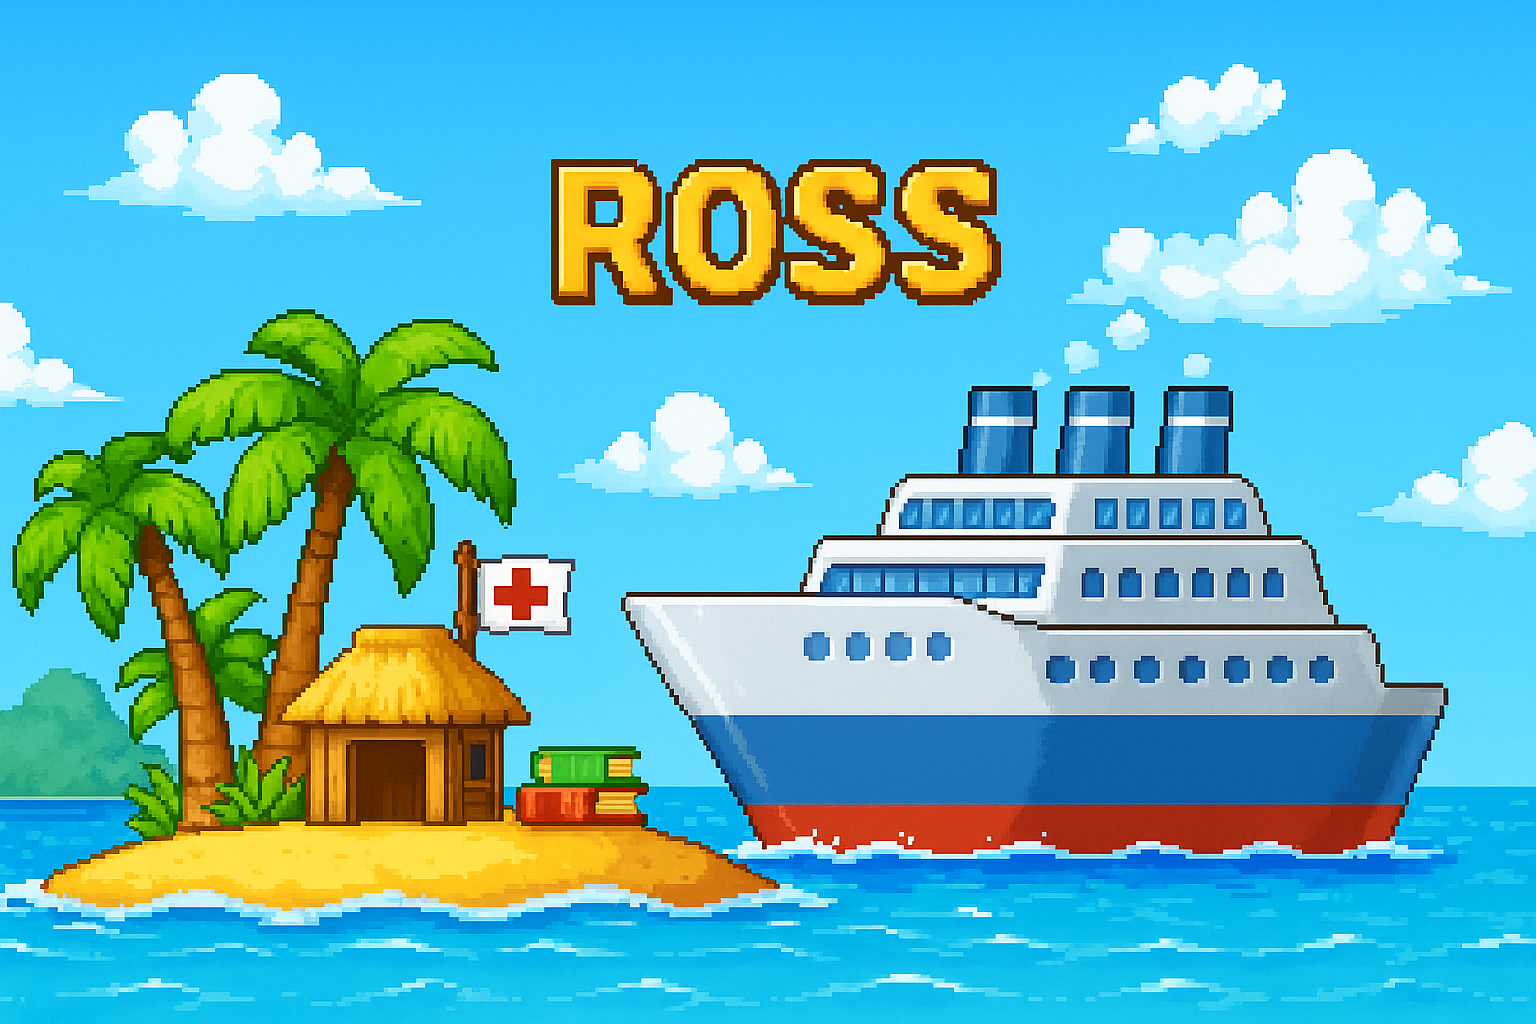
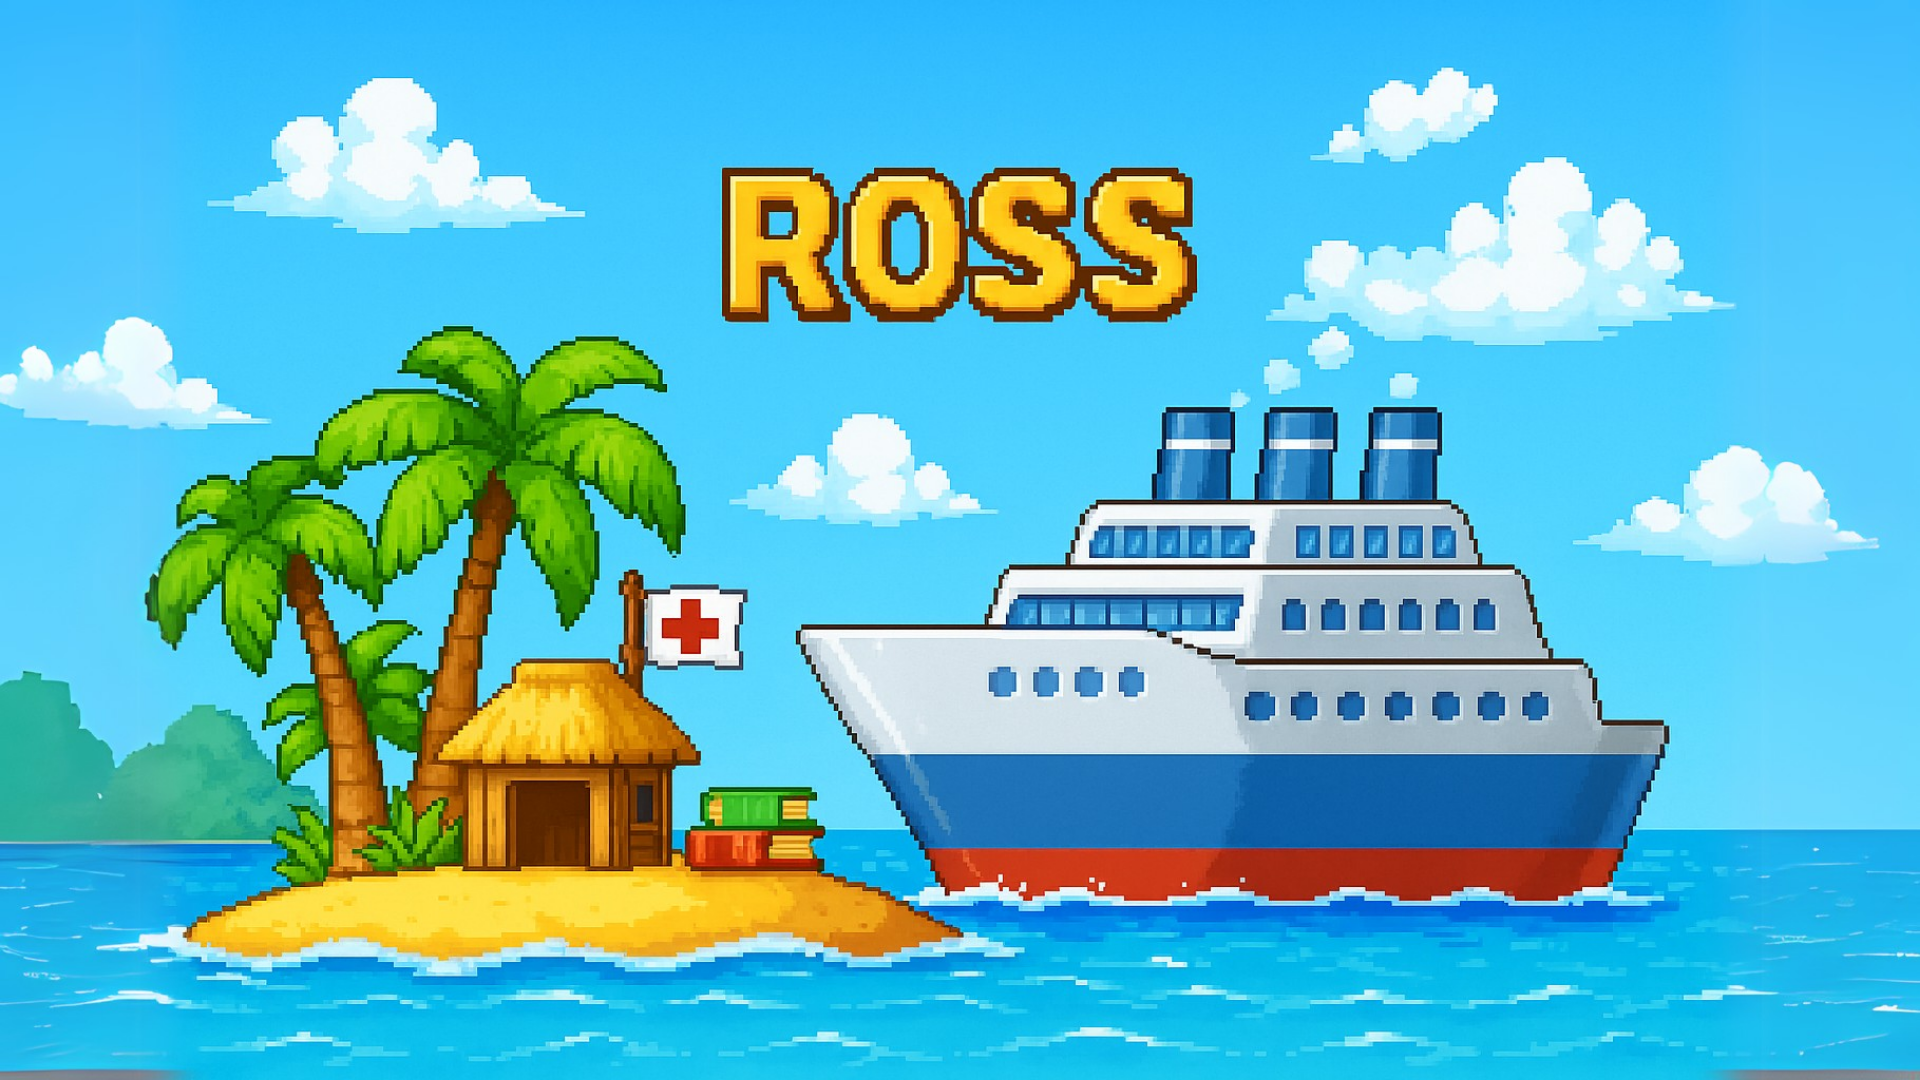
Adjust level styles and ground thickness

diff --git a/src/data/levels.ts b/src/data/levels.ts
@@ -23,6 +23,7 @@ export interface LevelConfig {
   }>;
   backgroundGradient: string;
   backgroundImage: string;
+  groundColor: string;
   nextLevel?: string;
 }
 
@@ -31,9 +32,9 @@ export const defaultLevels: Record<string, LevelConfig> = {
     id: 'birth',
     name: 'Birth',
     hotspots: [
-      { id: 'hospital', x: 200, y: 250 },
-      { id: 'parents', x: 500, y: 250 },
-      { id: 'first_breath', x: 800, y: 250 },
+      { id: 'hospital', x: 200, y: 200 },
+      { id: 'parents', x: 500, y: 200 },
+      { id: 'first_breath', x: 800, y: 200 },
     ],
     sprites: [
       {
@@ -57,121 +58,118 @@ export const defaultLevels: Record<string, LevelConfig> = {
         zIndex: 21
       }
     ],
-    backgroundGradient: 'from-pink-250 to-pink-400',
+    backgroundGradient: 'from-pink-200 to-pink-400',
     backgroundImage: '/assets/hospital.png',
+    groundColor: 'bg-green-400',
     nextLevel: 'childhood'
   },
   childhood: {
     id: 'childhood',
     name: 'Childhood',
     hotspots: [
-      { id: 'sleep', x: 200, y: 250 },
-      { id: 'creative', x: 400, y: 250 },
-      { id: 'song', x: 700, y: 250 },
+      { id: 'sleep', x: 200, y: 200 },
+      { id: 'creative', x: 400, y: 200 },
+      { id: 'song', x: 700, y: 200 },
     ],
     backgroundGradient: 'from-blue-400 to-blue-600',
     backgroundImage: '/assets/childhood.png',
+    groundColor: 'bg-orange-500',
     nextLevel: 'school'
   },
   school: {
     id: 'school',
     name: 'School',
     hotspots: [
-      { id: 'gifted', x: 150, y: 250 },
-      { id: 'AV', x: 300, y: 250 },
-      { id: 'DOTA', x: 500, y: 250 },
-      { id: 'PSPC', x: 800, y: 250 },
-      { id: 'dnd', x: 1000, y: 250 },
+      { id: 'gifted', x: 150, y: 200 },
+      { id: 'AV', x: 300, y: 200 },
+      { id: 'DOTA', x: 500, y: 200 },
+      { id: 'PSPC', x: 800, y: 200 },
+      { id: 'dnd', x: 1000, y: 200 },
 
     ],
     backgroundGradient: 'from-blue-400 to-blue-600',
     backgroundImage: '/assets/school.png',
+    groundColor: 'bg-green-600',
     nextLevel: 'university'
   },
   university: {
     id: 'university',
     name: 'University',
     hotspots: [
-      { id: 'program', x: 200, y: 250 },
-      { id: 'meeting', x: 500, y: 250 },
-      { id: 'game_nights', x: 800, y: 250 },
-      { id: 'eternum', x: 1200, y: 250 },
+      { id: 'program', x: 200, y: 200 },
+      { id: 'meeting', x: 500, y: 200 },
+      { id: 'game_nights', x: 800, y: 200 },
+      { id: 'eternum', x: 1200, y: 200 },
     ],
     backgroundGradient: 'from-blue-400 to-blue-600',
     backgroundImage: '/assets/university.png',
+    groundColor: 'bg-green-600',
     nextLevel: 'med_school'
   },
   med_school: {
     id: 'med_school',
     name: 'Medical School',
     hotspots: [
-      { id: 'ross', x: 300, y: 250 },
-      { id: 'ship', x: 500, y: 250 },
-      { id: 'covid', x: 900, y: 250 },
-      { id: 'med_school_grad', x: 1200, y: 250 },
+      { id: 'ross', x: 300, y: 200 },
+      { id: 'ship', x: 500, y: 200 },
+      { id: 'covid', x: 900, y: 200 },
+      { id: 'med_school_grad', x: 1200, y: 200 },
     ],
     backgroundGradient: 'from-blue-400 to-blue-600',
     backgroundImage: '/assets/med_school.png',
+    groundColor: 'bg-yellow-600',
     nextLevel: 'residency'
   },
   residency: {
     id: 'residency',
     name: 'Residency',
     hotspots: [
-      { id: 'wmed', x: 300, y: 250 },
-      { id: 'life_events', x: 800, y: 250 },
-      { id: 'union', x: 1200, y: 250 },
+      { id: 'wmed', x: 300, y: 200 },
+      { id: 'life_events', x: 800, y: 200 },
+      { id: 'union', x: 1200, y: 200 },
     ],
     backgroundGradient: 'from-blue-400 to-blue-600',
     backgroundImage: '/assets/residency.png',
+    groundColor: 'bg-green-700',
     nextLevel: 'wedding'
   },
   wedding: {
     id: 'wedding',
     name: 'Wedding',
     hotspots: [
-      { id: 'marriage', x: 400, y: 250 },
-      { id: 'honeymoon', x: 800, y: 250 },
-      { id: 'vacations', x: 1400, y: 250 },
+      { id: 'marriage', x: 400, y: 200 },
+      { id: 'honeymoon', x: 800, y: 200 },
+      { id: 'vacations', x: 1400, y: 200 },
     ],
     backgroundGradient: 'from-blue-400 to-blue-600',
     backgroundImage: '/assets/wedding.png',
+    groundColor: 'bg-yellow-500',
     nextLevel: 'baby'
   },
   baby: {
     id: 'baby',
     name: 'baby',
     hotspots: [
-      { id: 'baby', x: 100, y: 250 },
-      { id: 'baby_honeymoon', x: 700, y: 250 },
-      { id: 'crawling', x: 1000, y: 250 },
+      { id: 'baby', x: 100, y: 200 },
+      { id: 'baby_honeymoon', x: 700, y: 200 },
+      { id: 'crawling', x: 1000, y: 200 },
     ],
     backgroundGradient: 'from-blue-400 to-blue-600',
     backgroundImage: '/assets/baby.png',
+    groundColor: 'bg-cyan-500',
     nextLevel: 'graduation'
   },
   graduation: {
     id: 'graduation',
     name: 'Graduation',
     hotspots: [
-      { id: 'diploma', x: 300, y: 250 },
-      { id: 'family', x: 600, y: 250 },
-      { id: 'future', x: 900, y: 250 },
-    ],
-    sprites: [
-      {
-        id: 'graduate',
-        x: 1100,
-        y: 50,
-        width: 140,
-        height: 140,
-        imageSrc: '/assets/graduateSprite.png',
-        animation: 'wave',
-        zIndex: 20
-      }
+      { id: 'diploma', x: 300, y: 200 },
+      { id: 'family', x: 600, y: 200 },
+      { id: 'future', x: 900, y: 200 },
     ],
     backgroundGradient: 'from-purple-600 to-blue-800',
     backgroundImage: '/assets/graduation.png',
+    groundColor: 'bg-amber-600',
     nextLevel: 'end'
   },
 }; 

diff --git a/src/components/LevelScene.tsx b/src/components/LevelScene.tsx
@@ -30,7 +30,7 @@ interface LevelConfig {
 
 const JUMP_HEIGHT = 120; // pixels to jump up
 const JUMP_DURATION = 400; // ms
-const BASE_HEIGHT = -330;
+const BASE_HEIGHT = -360;
 const JUMP_DISTANCE = 60; // pixels to move horizontally during jump
 
 const LevelScene: React.FC<LevelSceneProps> = ({ levelId }) => {
@@ -42,7 +42,7 @@ const LevelScene: React.FC<LevelSceneProps> = ({ levelId }) => {
 
   // Avatar movement and animation state
   const [avatarX, setAvatarX] = useState(0); // Start at far left
-  const [avatarY, setAvatarY] = useState(BASE_HEIGHT); // -270 is the normal bottom value
+  const [avatarY, setAvatarY] = useState(BASE_HEIGHT);
   const [isJumping, setIsJumping] = useState(false);
   const [avatarState, setAvatarState] = useState<'idle' | 'walkLeft' | 'walkRight' | 'celebrate'>('idle');
   const [avatarDirection, setAvatarDirection] = useState<'left' | 'right'>('right');
@@ -152,13 +152,7 @@ const LevelScene: React.FC<LevelSceneProps> = ({ levelId }) => {
       if (animationFrame) cancelAnimationFrame(animationFrame);
     };
   }, [keysDown, isJumping]);
-
-  const handleHotspotClick = (hotspot: { id: string; dialog: string }) => {
-    setActiveDialog(hotspot.dialog);
-    addXP(10);
-    addCollectible();
-  };
-
+  
   // Handle dialog close with spacebar
   useEffect(() => {
     const handleKeyDown = (e: KeyboardEvent) => {
@@ -230,7 +224,7 @@ const LevelScene: React.FC<LevelSceneProps> = ({ levelId }) => {
         }}
       >
         {/* Ground */}
-        <div className="absolute bottom-0 w-full h-16 bg-green-600 z-10" />
+        <div className={`absolute bottom-0 w-full h-8 ${levelConfig.groundColor} z-10`} />
         
         {/* Hotspots */}
         {levelConfig.hotspots.map((hotspot) => {

diff --git a/src/context/LevelContext.tsx b/src/context/LevelContext.tsx
@@ -45,7 +45,8 @@ const defaultLevel: LevelConfig = {
   name: 'Unknown Level',
   hotspots: [],
   backgroundGradient: 'from-gray-400 to-gray-600',
-  backgroundImage: '/assets/clouds.png'
+  backgroundImage: '/assets/clouds.png',
+  groundColor: 'bg-gray-600'
 };
 
 const LevelContext = createContext<LevelContextType | undefined>(undefined);
